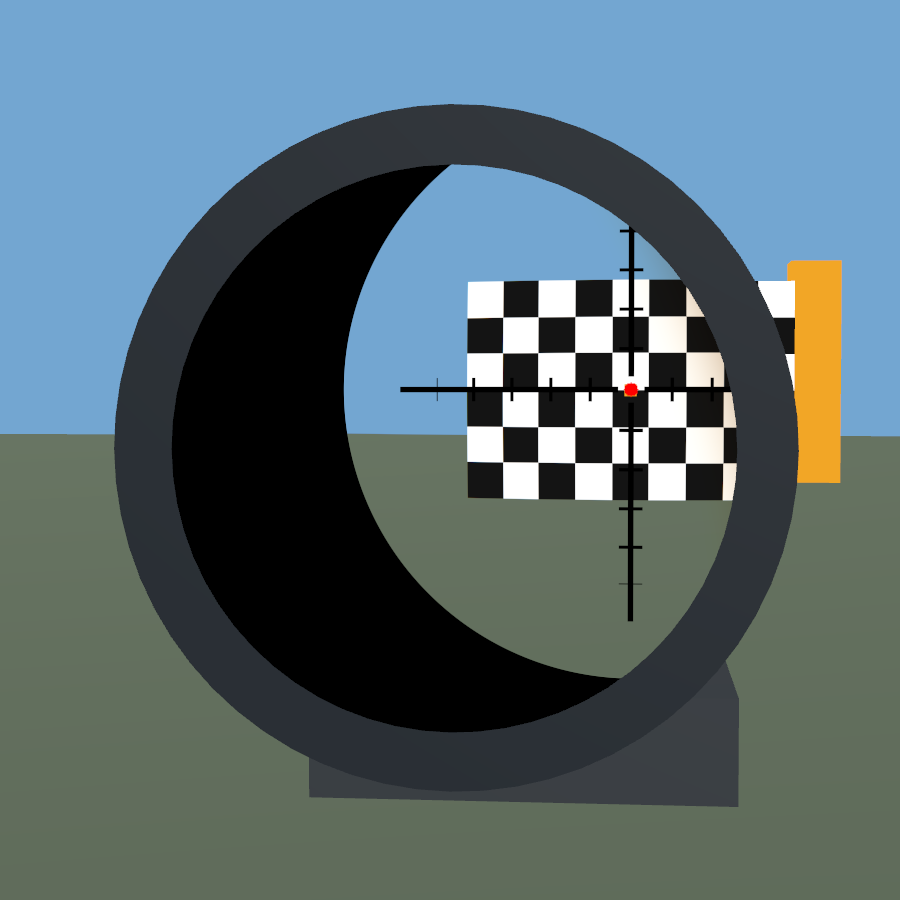
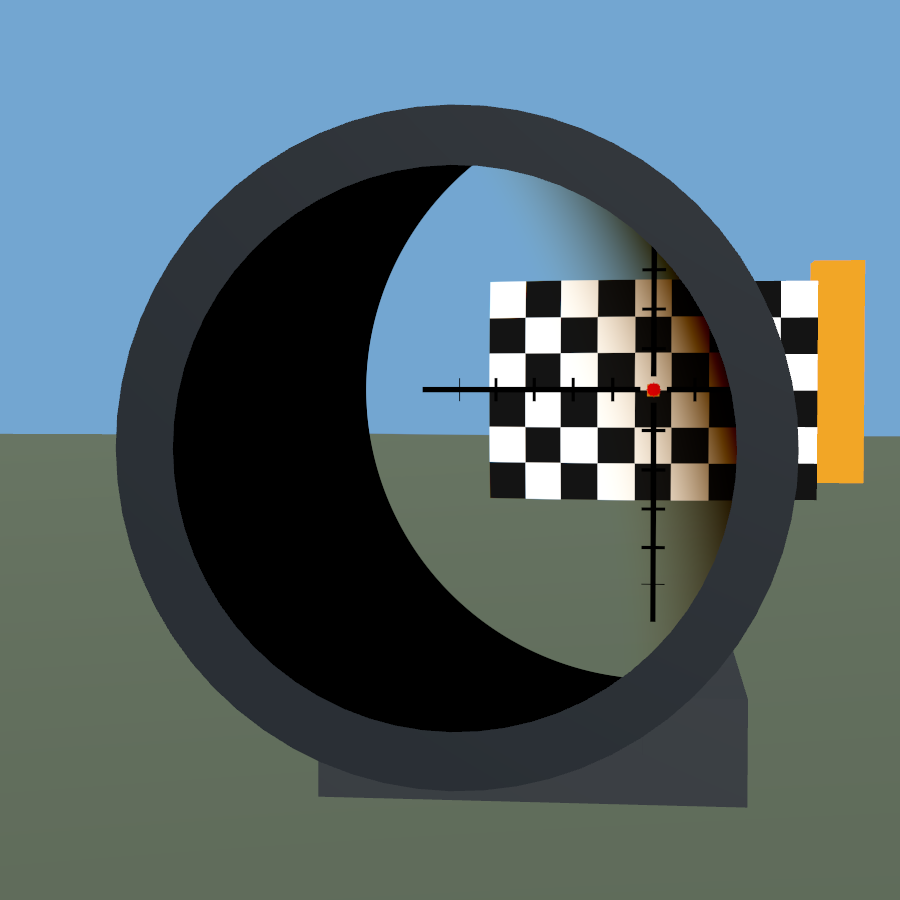
Restore the clearer original framing for shadow-fringe comparison

diff --git a/README.md b/README.md
@@ -93,7 +93,7 @@ coverage also requires matching camera FOV and zoom animations.
 | ![Warm colour fringe on the eye-box shadow](docs/images/shadow-fringe-warm-retake.png) | ![Purple colour fringe on the eye-box shadow](docs/images/shadow-fringe-purple-retake.png) |
 
 Actual Example captures at 1x, with a fixed exit pupil. The palette comparison
-uses the same eye offset (12mm horizontally, 4mm vertically) and strength 0.012.
+uses the same eye offset (13.5mm horizontally, 4mm vertically) and strength 0.012.
 The mild preset is intentionally subtle, especially with the eye centred.
 
 These are visual approximations, not a full physical lens simulation.
